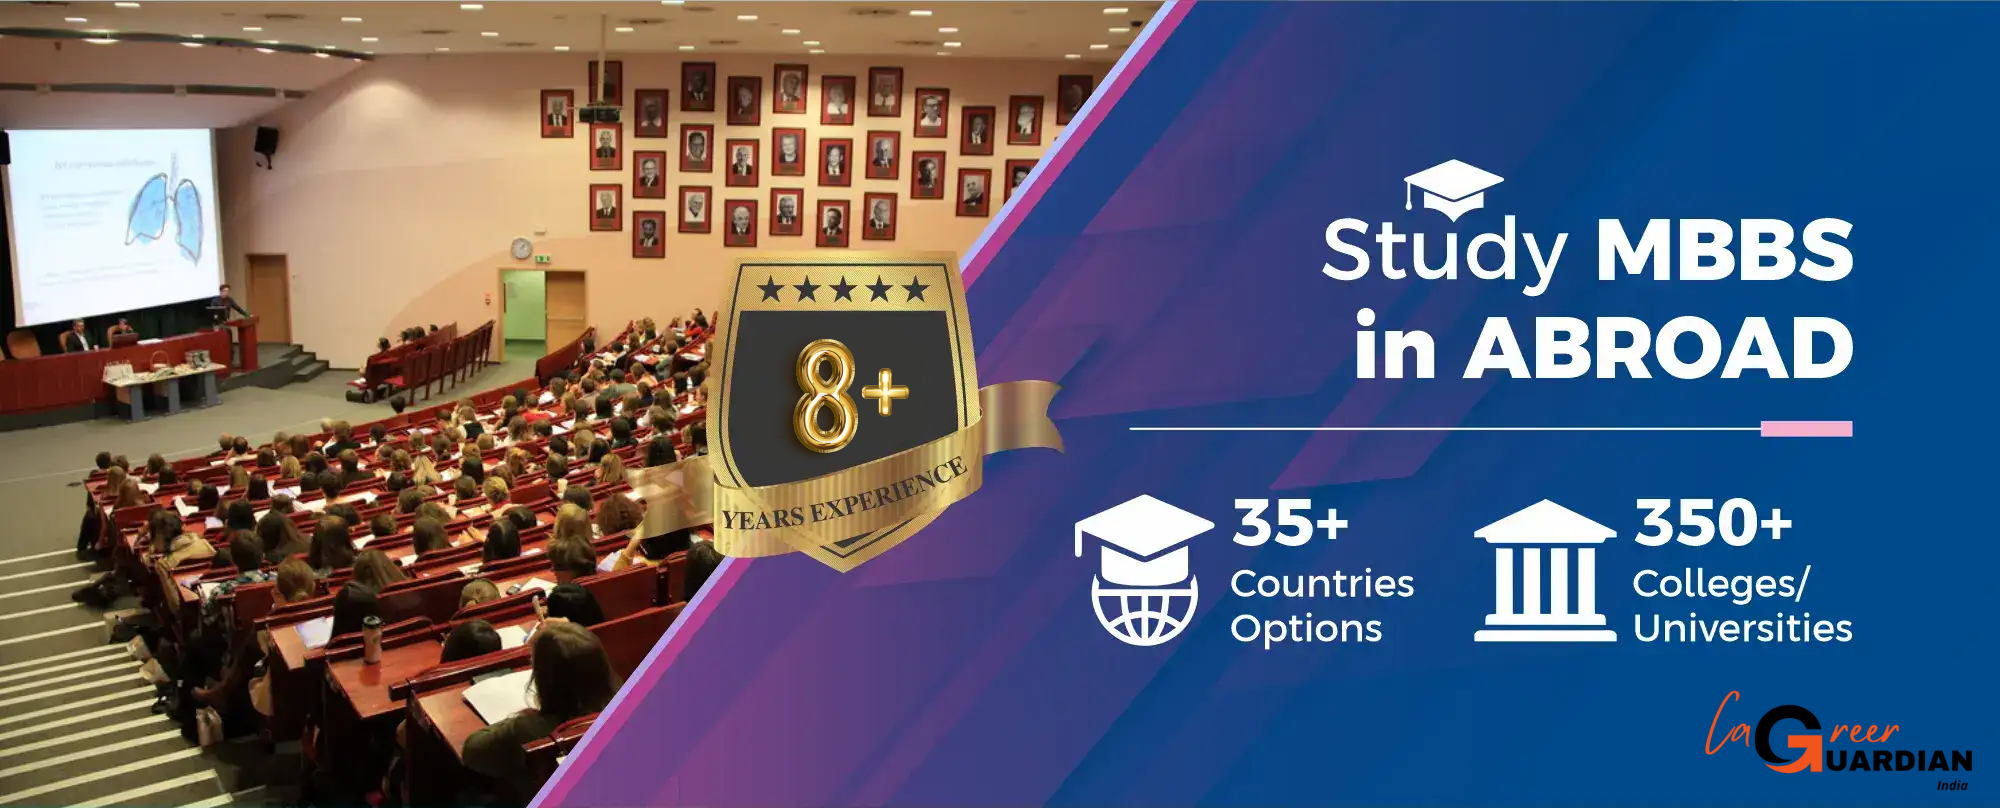
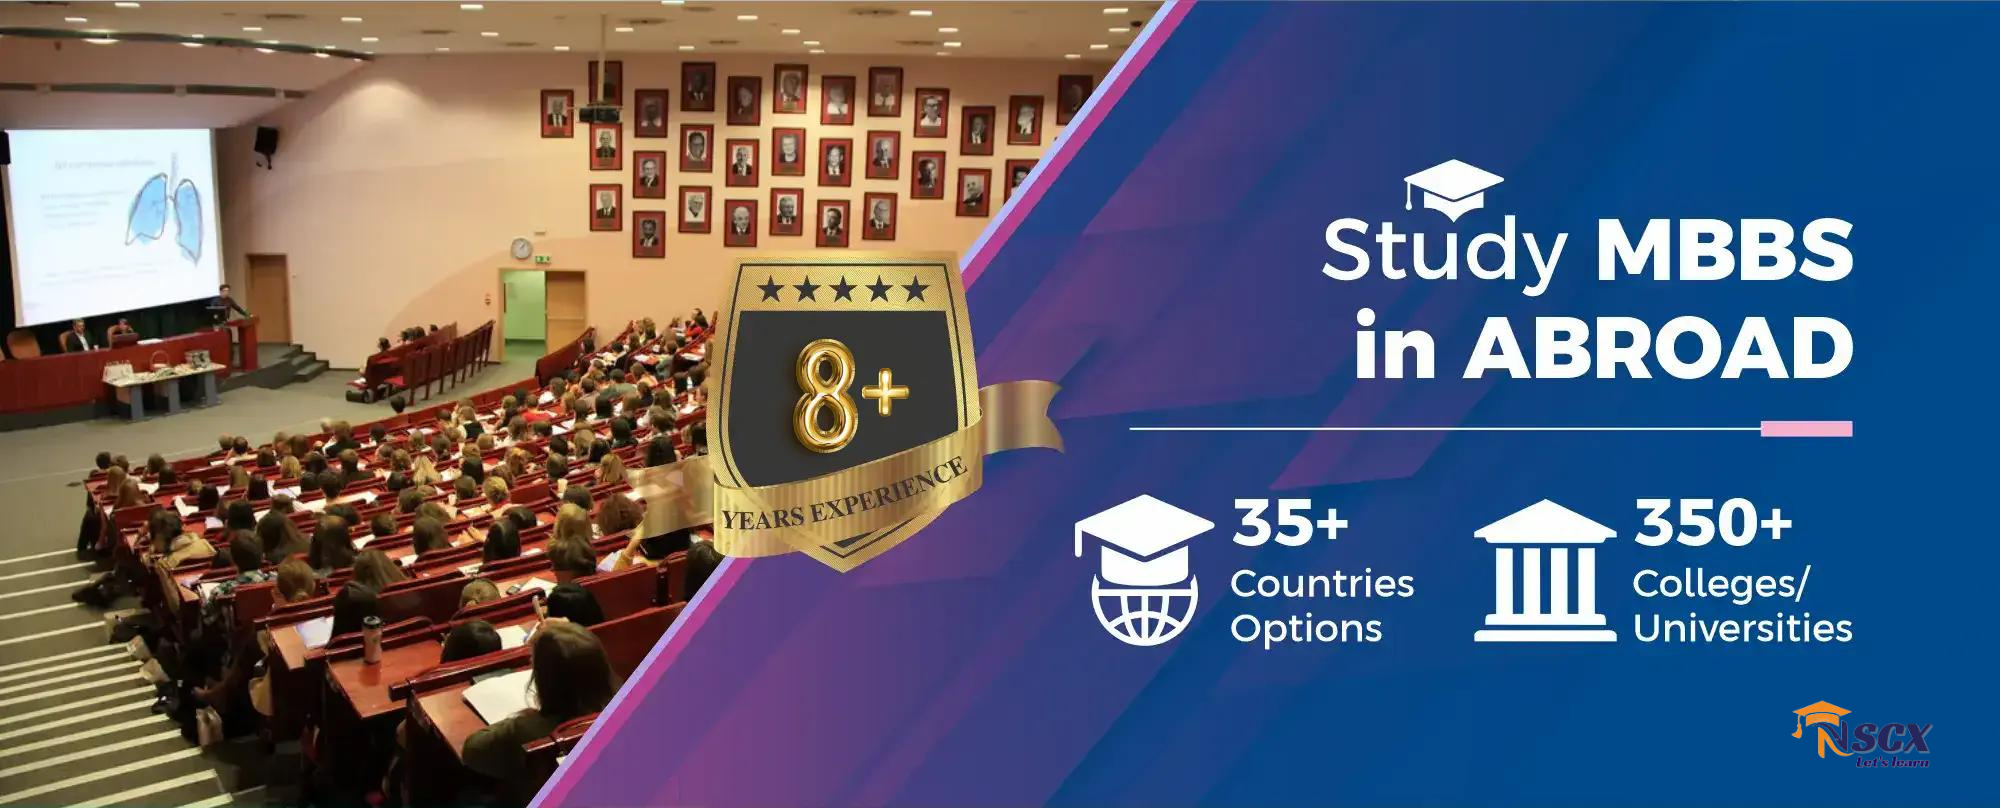
kmk

Changed region(s): [[0.837, 0.8663, 0.992, 0.9901], [0.403, 0.4332, 0.465, 0.5569], [0.837, 0.7116, 0.899, 0.7426]]

diff --git a/components/home/HeroSection.jsx b/components/home/HeroSection.jsx
@@ -1,15 +1,14 @@
 "use client"
 import Slider from "react-slick";
-import Slide1 from '../../public/hero1.jpg'
-import Slide2 from '../../public/hero2.jpg'
-import Slide3 from '../../public/hero3.jpg'
-import Slide4 from '../../public/hero4.jpg'
+import Slide1 from '../../public/hero5.png'
+import Slide2 from '../../public/hero6.png'
+
 import Image from 'next/image'
 import "slick-carousel/slick/slick.css";
 import "slick-carousel/slick/slick-theme.css";
+import Link from "next/link";
 const HeroSection = () => {
     var settings = {
-        // dots: true,
         infinite: true,
         speed: 500,
         slidesToShow: 1,
@@ -21,18 +20,13 @@ const HeroSection = () => {
   return (
     <div className='mx-auto '>
           <Slider {...settings}>
-          <div>
-        <Image src={Slide1} alt="" className='w-full h-full object-cover'/>
-      </div>
-      <div>
+          <Link href={'/contact'}>
+        <Image src={Slide1} alt="" className='w-[1349px] h-[800px] object-cover'/>
+      </Link>
+      <Link href={'/contact'}>
         <Image src={Slide2} alt="" className='w-full h-full object-cover'/>
-      </div>
-      <div>
-        <Image src={Slide3} alt="" className='w-full h-full object-cover'/>
-      </div>
-      <div>
-        <Image src={Slide4} alt="" className='w-full h-full object-cover'/>
-      </div>
+      </Link>
+     
           </Slider>
      
     

diff --git a/components/neet-result/Budget.jsx b/components/neet-result/Budget.jsx
@@ -58,11 +58,11 @@ const Budget = () => {
      <div className='flex flex-col justify-start items-start gap-6 md:px-16 px-4'>
         <div className='flex justify-center items-center gap-7'>
             <IoCall  className='text-[16px]'/>
-            <p className='text-[16px]'> +91 76797 51281</p>
+            <p className='text-[16px]'> +917742727811</p>
         </div>
         <div className='flex justify-center items-center gap-7'>
             <IoMdMail  className='text-[16px]'/>
-            <p  className='text-[16px]'>careerguardianindia@gmail.com</p>
+            <p  className='text-[16px]'>Nscxinfo@gmail.com</p>
         </div>
      </div>
      <form 
